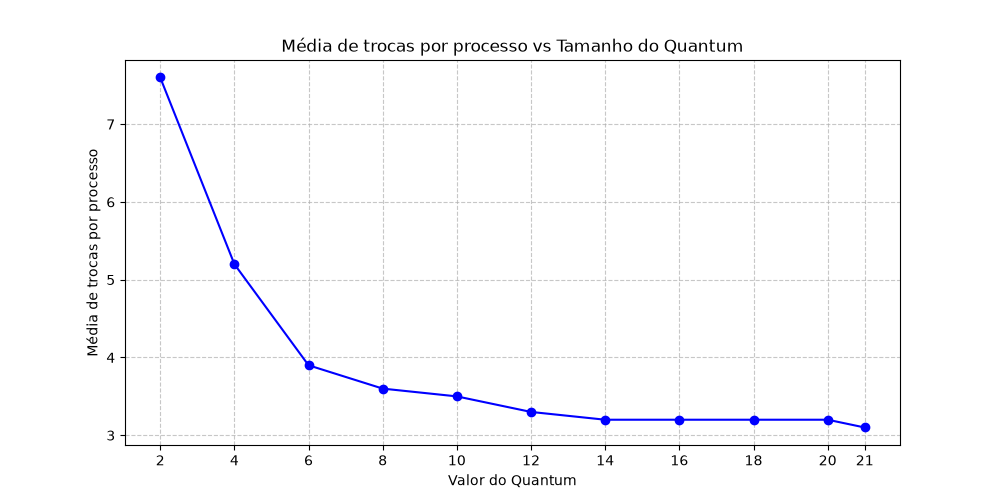
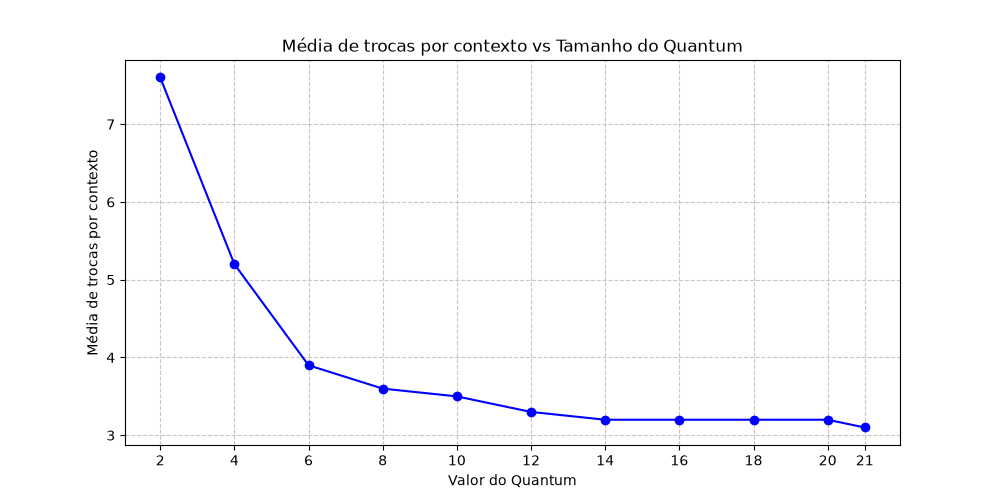
fix: titulos-graficos

diff --git a/analise_quantum.py b/analise_quantum.py
@@ -56,12 +56,12 @@ def executar_testes():
 
 def plotar_graficos(quantums, trocas, instrucoes):
 
-    # Gráfico 1: Média de trocas por processo
+    # Gráfico 1: Média de trocas por contexto
     plt.figure(figsize=(10, 5))
     plt.plot(quantums, trocas, marker='o', linestyle='-' , color='b')
-    plt.title("Média de trocas por processo vs Tamanho do Quantum")
+    plt.title("Média de trocas por contexto vs Tamanho do Quantum")
     plt.xlabel("Valor do Quantum")
-    plt.ylabel("Média de trocas por processo")
+    plt.ylabel("Média de trocas por contexto")
     plt.xticks(quantums)
     plt.grid(True, linestyle='--', alpha=0.7)
     plt.savefig(os.path.join(diretorio_saidas, "grafico_trocas.png"))
@@ -72,7 +72,7 @@ def plotar_graficos(quantums, trocas, instrucoes):
     plt.plot(quantums, instrucoes, marker='s', linestyle='-' , color='r')
     plt.title("Média de instruções executadas por Quantum")
     plt.xlabel("Valor do Quantum")
-    plt.ylabel("Média de instruções executadas por quantum")
+    plt.ylabel("Média de instruções executadas por Quantum")
     plt.xticks(quantums)
     plt.grid(True, linestyle='--', alpha=0.7)
     plt.savefig(os.path.join(diretorio_saidas, "grafico_instrucoes.png"))
